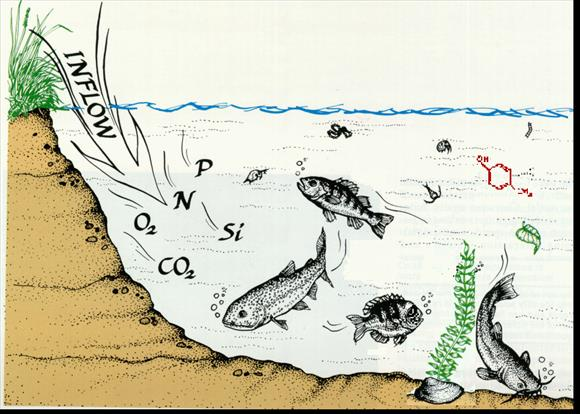
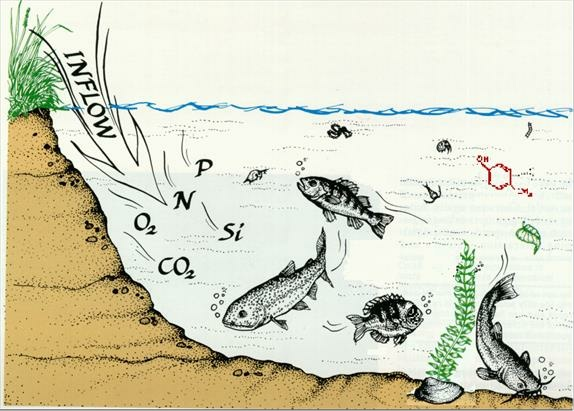
Fixed an issue that could occur when HAWQS is run following a simplification (merging) of a stream network-- in some cases not all relevant HUC14 basins were requested. Improved color rendering of HUC14s to avoid confusion with stream segments.

Changed region(s): [[0.0, 0.0, 1.0, 1.0], [0.7108, 0.5255, 0.7404, 0.5547], [0.4739, 0.3504, 0.5035, 0.3796]]

diff --git a/GUI/GUI.AQUATOX/html/leafletMap.html b/GUI/GUI.AQUATOX/html/leafletMap.html
@@ -386,9 +386,7 @@
             });
             rH14Layer.setStyle({ weight: 2 });
             rH14Layer.eachLayer(function (layer) {
-                if (layer.feature.geometry.type == 'Polygon') {
-                    layer.setStyle({ color: 'navy', weight: 1, fillOpacity: 0.0 })
-                }
+                    layer.setStyle({ color: 'gray', weight: 1, fillOpacity: 0.0 })
             });
             rH14Layer.addTo(MAP);
             if (geoLayer) geoLayer.bringToFront();

diff --git a/GUI/GUI.AQUATOX/MultiSegForm.cs b/GUI/GUI.AQUATOX/MultiSegForm.cs
@@ -2495,23 +2495,22 @@ namespace GUI.AQUATOX
                     connection.Open();
                     using (SQLiteCommand command = new SQLiteCommand("SELECT HUC14 FROM COMID_to_HUC14 WHERE COMID = @Index", connection))
                     {
-                        for (int i = 0; i < AQT2D.SN.order.Length; i++)
-                            foreach (string COMID in AQT2D.SN.order[i])
-                            {
-                                command.Parameters.Clear();
-                                command.Parameters.AddWithValue("@Index", COMID);
+                        foreach (string COMID in AQT2D.SN.AllCOMIDs())
+                        {
+                            command.Parameters.Clear();
+                            command.Parameters.AddWithValue("@Index", COMID);
 
-                                using (SQLiteDataReader reader = command.ExecuteReader())
+                            using (SQLiteDataReader reader = command.ExecuteReader())
+                            {
+                                if (reader.Read())
                                 {
-                                    if (reader.Read())
-                                    {
-                                        string HUC14 = reader["HUC14"].ToString();
-                                        if (!H14s.Contains(HUC14))
-                                            H14s.Add(HUC14);
-                                        if (i == AQT2D.SN.order.Length - 1) pourpoint = HUC14;  // last to run in the order is the pourpoint
-                                    }
+                                    string HUC14 = reader["HUC14"].ToString();
+                                    if (!H14s.Contains(HUC14))
+                                        H14s.Add(HUC14);
+                                    if (COMID == AQT2D.SN.order[AQT2D.SN.order.Length - 1][0]) pourpoint = HUC14;  // last to run in the order is the pourpoint
                                 }
                             }
+                        }
                     }
                 }
                 return H14s;

diff --git a/Data.Simulate.AQUATOX/AQ_Sim_2D.cs b/Data.Simulate.AQUATOX/AQ_Sim_2D.cs
@@ -47,7 +47,26 @@ namespace AQUATOX.AQSim_2D
             public Dictionary<string, string[]> boundary;
             [JsonProperty("divergent-paths")] public Dictionary<string, string[]> divergentpaths;
             public cWaterbodies waterbodies;
-            public string[][] merged;  // tracks those segments that have been merged
+            public string[][] merged;  // tracks those segments that have been merged.
+                                       // Element [n,0] is the small merged stream; [n,1] is the remaining stream that has been merged into.
+
+            
+            public IEnumerable<string> AllCOMIDs()  // Retrieves all COMIDs in the system including those that are merged
+            {
+                var allCOMIDs = new List<string>();
+                foreach (var orderArray in order)
+                {
+                    if (orderArray != null)
+                        allCOMIDs.AddRange(orderArray);  //COMIDs to be run
+                }
+                foreach (var mergePair in merged)
+                {
+                    if (mergePair != null && mergePair.Length > 0)
+                        allCOMIDs.Add(mergePair[0]);  //COMIDs that were merged
+                }
+
+                return allCOMIDs;
+            }
         }
 
         public void AddNetworkBasedOnSources(HashSet<string> ids)  // adds the SN network and out-of-network data structures

diff --git a/GUI/GUI.AQUATOX/Splash.cs b/GUI/GUI.AQUATOX/Splash.cs
@@ -8,6 +8,10 @@ using System.Windows.Forms;
 using static AQUATOX.AQSim_2D.AQSim_2D;
 
 
+
+// Menu View/Terminal  "dotnet publish hms.sln -c Release -r win-x64 --self-contained true"
+
+
 namespace GUI.AQUATOX
 {
     public partial class Splash : Form
